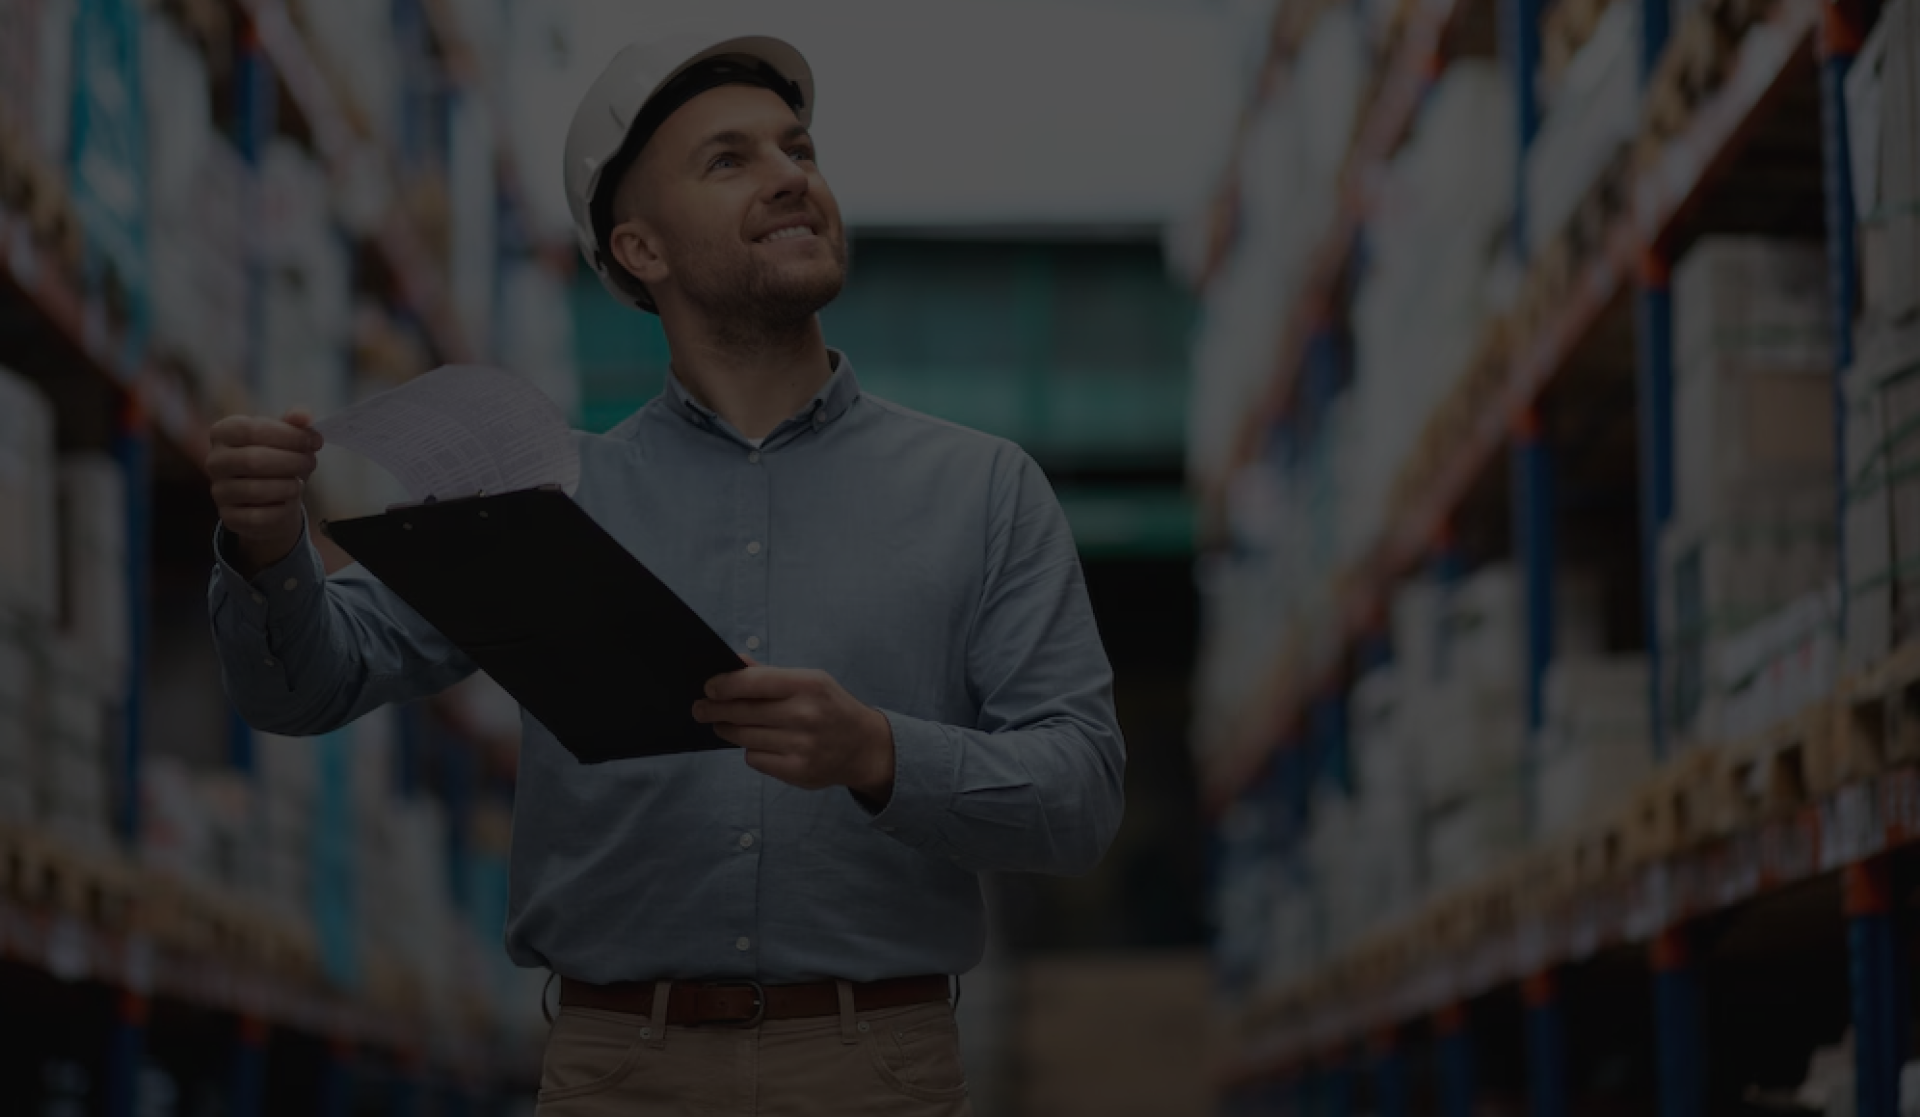
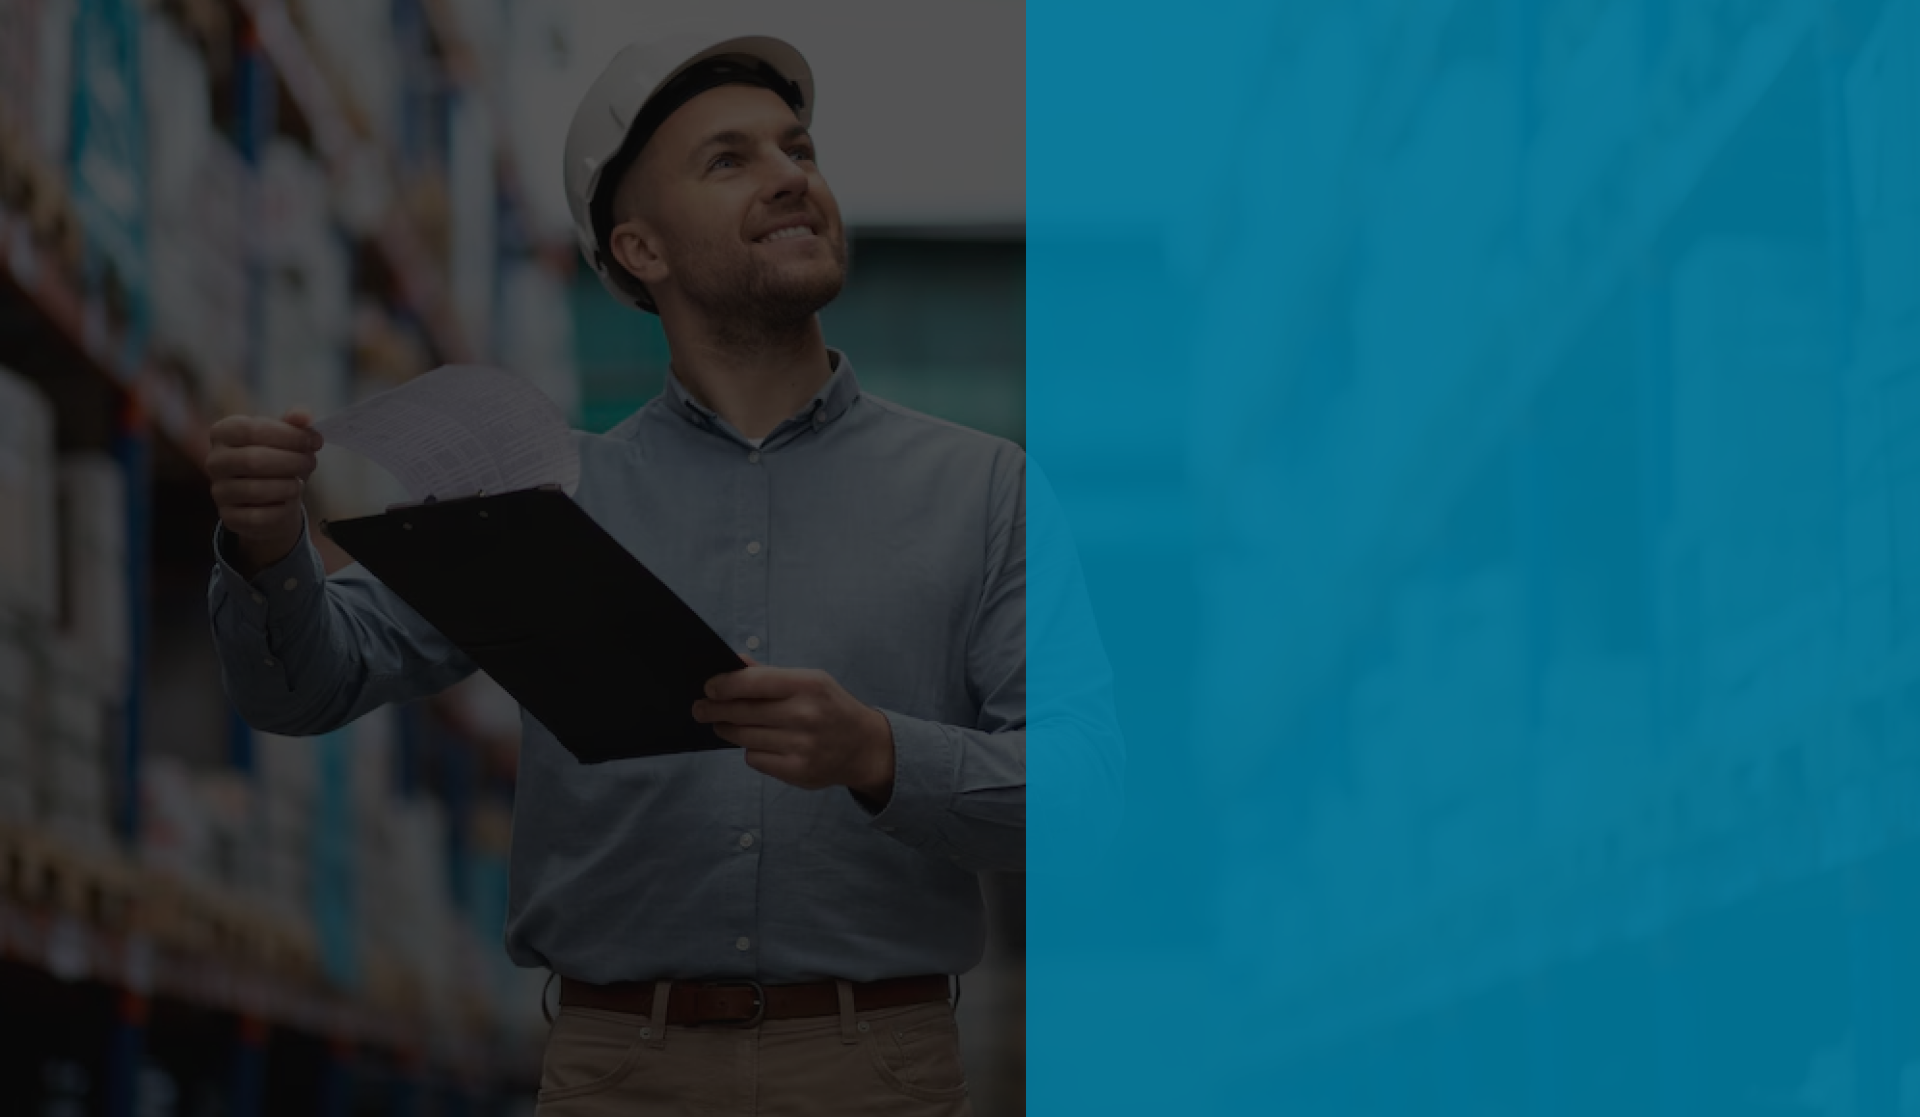
.

diff --git a/src/Pages/Home/Home.jsx b/src/Pages/Home/Home.jsx
@@ -1,7 +1,6 @@
-import React from 'react'
-import NavBar from '../../Components/NavBar/NavBar'
-import st from "./Home.module.css"
-import ButtonLogin from '../../Components/Button Login/ButtonLogin'
+import React from "react";
+import NavBar from "../../Components/NavBar/NavBar";
+import st from "./Home.module.css";
 
 const Home = () => {
   return (
@@ -11,19 +10,46 @@ const Home = () => {
           <NavBar />
         </header>
         <main>
+          <div className={st.container_1}>
+            <div className={st.textsContainer_1}>
+              <h2>SISTEMA DE ESTOQUE</h2>
+              <h2 className={st.textZapas}>ZAPAS</h2>
+              <h1>Controle seu estoque com facilidade!</h1>
+              <span>
+                Otimize seu estoque com nossa Implantação de Sistema de Estoque.
+                Acesso remoto e alertas de baixo estoque inclusos!
+              </span>
+              <a className={st.buttonCadastro} href="#">
+                Cadastre - se
+              </a>
+            </div>
 
-          <div>
-            <h2>SISTEMA DE ESTOQUE</h2>
-            <h2>ZAPAS</h2>
-            <h1>Controle seu estoque com facilidade!</h1>
-            <span>Otimize seu estoque com nossa Implantação de Sistema de Estoque. Acesso remoto e alertas de baixo estoque inclusos!</span>
-            <ButtonLogin name={ "Cadastre-se" } link={"#"}/>
+            <div className={st.formsContainer}>
+              <div className={st.itemsForms}>
+                <h2>Potencialize seu estoque com a Zapas!</h2>
+                <p>
+                  Transforme sua gestão de estoque com eficiência. Solicite um
+                  orçamento personalizado e descubra como otimizar seus
+                  processos agora.
+                </p>
+                <ul>
+                  <li>
+                    <input placeholder="Name ..." type="text" />
+                  </li>
+                  <li>
+                    <input placeholder="E-mail ..." type="text" />
+                  </li>
+                  <li>
+                    <input placeholder="Mensagem ..." type="text" />
+                  </li>
+                </ul>
+              </div>
+            </div>
           </div>
-
         </main>
       </div>
     </>
-  )
-}
+  );
+};
 
-export default Home
+export default Home;

diff --git a/src/Pages/Home/Home.module.css b/src/Pages/Home/Home.module.css
@@ -12,3 +12,80 @@
   background-repeat: no-repeat;
   position: relative;
 }
+
+.container_1 {
+  width: 100%;
+  display: flex;
+  justify-content: space-around;
+}
+
+.textsContainer_1{
+  display: flex;
+  flex-direction: column;
+  color: #fff;
+}
+
+.textsContainer_1 h2{
+  font-size: 2rem;
+  font-weight: 700;
+}
+
+.textsContainer_1 h1{
+  width: 650px;
+  font-size: 4rem;
+  font-weight: 700;
+  text-transform: uppercase;
+}
+
+.textsContainer_1 span {
+  font-size: 1.5rem;
+  font-weight: 600;
+  width: 650px;
+}
+
+.textZapas{
+  display: inline-block;
+  background-color: #0081A7;
+  padding: 5px 10px;
+  align-self: flex-start;
+}
+
+.buttonCadastro {
+  padding: 13px 60px;
+  text-decoration: none;
+  color: #fff;
+  font-size: 1.3rem;
+  background-color: #0081A7;
+  border-radius: 39px;
+  align-self: flex-start;
+}
+
+.formsContainer {
+}
+
+.itemsForms {
+  display: flex;
+  flex-direction: column;
+  align-items: center;
+  justify-content: center;
+  color: #fff;
+}
+
+.itemsForms ul li {
+  list-style: none;
+  margin: 20px 0;
+}
+
+.itemsForms ul li input {
+  width: 600px;
+  height: 60px;
+  border: none;
+  border-radius: 60px;
+  background-color: #fff;
+  font-size: 1.2rem;
+}
+
+.itemsForms ul li input::placeholder {
+  color: #000000b7;
+  padding: 0 20px;
+}
